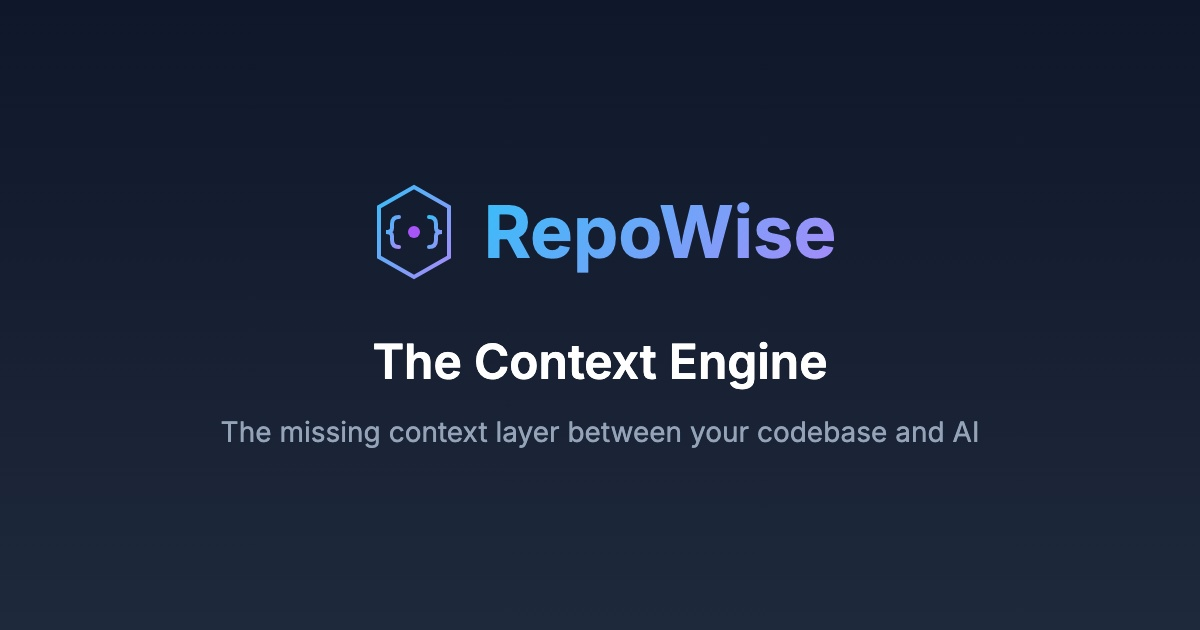
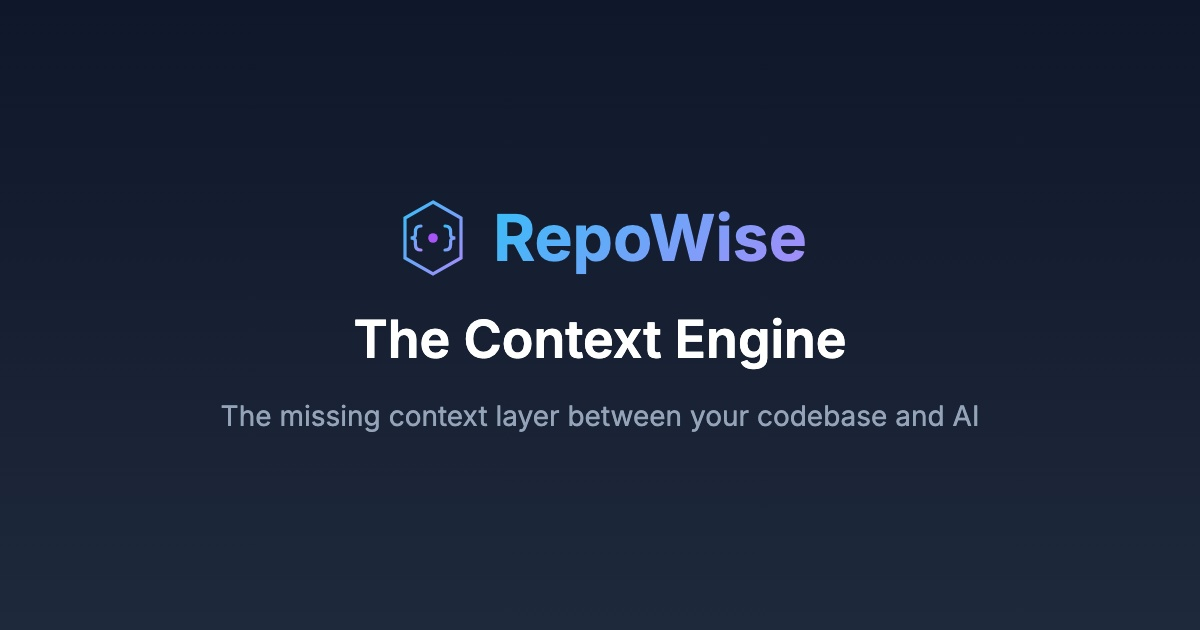
Remove em dash, stack RepoWise above The Context Engine

Changed region(s): [[0.185, 0.4825, 0.8325, 0.7238], [0.3083, 0.3016, 0.7092, 0.4524]]

diff --git a/public/og-generator.html b/public/og-generator.html
@@ -26,14 +26,14 @@
       display: flex;
       align-items: center;
       gap: 20px;
-      margin-bottom: 50px;
+      margin-bottom: 30px;
     }
     .logo-icon {
-      width: 100px;
-      height: 100px;
+      width: 80px;
+      height: 80px;
     }
     .logo-text {
-      font-size: 72px;
+      font-size: 64px;
       font-weight: 700;
       background: linear-gradient(135deg, #38bdf8, #a78bfa);
       -webkit-background-clip: text;
@@ -41,10 +41,10 @@
       background-clip: text;
     }
     .tagline {
-      font-size: 48px;
+      font-size: 52px;
       font-weight: 600;
       color: white;
-      margin-bottom: 24px;
+      margin-bottom: 28px;
     }
     .description {
       font-size: 28px;

diff --git a/src/components/Hero.tsx b/src/components/Hero.tsx
@@ -98,10 +98,9 @@ export default function Hero() {
           transition={{ duration: 0.8, ease: [0.22, 1, 0.36, 1] }}
         >
           <h1 className="heading-xl mb-6">
-            RepoWise —{" "}
-            <span className="text-gradient-primary">
-              The Context Engine
-            </span>
+            <span className="text-gradient-primary">RepoWise</span>
+            <br />
+            <span className="text-white">The Context Engine</span>
           </h1>
 
           <p className="body-lg mb-10 max-w-2xl mx-auto">
